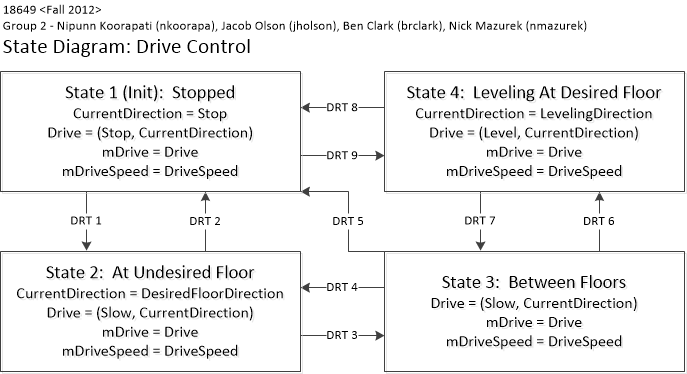
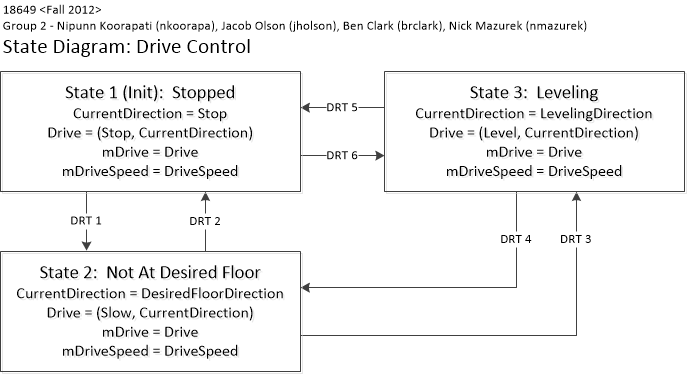
Fixed DriveControl and requirements, hopefully for good

diff --git a/portfolio/reqs/requirements2.html b/portfolio/reqs/requirements2.html
@@ -1731,8 +1731,8 @@ with a floor. </li>
     6.7&nbsp; If DriveSpeed equals (s,d), mDriveSpeed shall be set to (s,d).
   </li>
   <li>
-    6.8&nbsp; If mDesiredFloor.f equals CurrentFloor, and exactly one mLevel[d]
-    is False, then
+    6.8&nbsp; If exactly one mLevel[d] is False, and either mDesiredFloor.f
+    equals CurrentFloor or any mDoorClosed[b,r] are False, then
   </li>
   <ul>
     <li>
@@ -1743,8 +1743,8 @@ with a floor. </li>
     </li>
   </ul>
   <li>
-    6.9&nbsp; If mDesiredFloor.f equals CurrentFloor, and all mLevel[d] are
-    True, then
+    6.9&nbsp; If all mLevel[d] are True, and either mDesiredFloor.f equals
+    CurrentFloor or any mDoorClosed[b,r] are False, then
   </li>
   <ul>
     <li>
@@ -1755,9 +1755,9 @@ with a floor. </li>
     </li>
   </ul>
   <li>
-    6.10&nbsp; If CurrentFloor does not equal None, mDesiredFloor.f does
-    not equal CurrentFloor, mDesiredFloor.f is in the range [1,MaxFloor]
-    inclusive, and all mDoorClosed[b,r] are True, then
+    6.10&nbsp; If mDesiredFloor.f does not equal CurrentFloor, mDesiredFloor.f
+    is in the range [1,MaxFloor] inclusive, and all mDoorClosed[b,r] are True,
+    then
   </li>
   <ul>
     <li>
@@ -1809,7 +1809,7 @@ with a floor. </li>
       <td style="vertical-align: top;">DRT3
       </td>
       <td style="vertical-align: top;">
-        (CurrentFloor == None) &amp;&amp;<br/>
+        (mDesiredFloor.f == CurrentFloor) &amp;&amp;<br/>
         (Safe == True) &amp;&amp; (Obese == False)
       </td>
     </tr>
@@ -1817,36 +1817,12 @@ with a floor. </li>
       <td style="vertical-align: top;">DRT4
       </td>
       <td style="vertical-align: top;">
-        (CurrentFloor != None) &amp;&amp;<br/>
-        (mDesiredFloor.f != CurrentFloor) &amp;&amp;<br/>
-        (Safe == True) &amp;&amp; (Obese == False)
-      </td>
-    </tr>
-    <tr>
-      <td style="vertical-align: top;">DRT5
-      </td>
-      <td style="vertical-align: top;">
-        (Safe == False) || (Obese == True)
-      </td>
-    </tr>
-    <tr>
-      <td style="vertical-align: top;">DRT6
-      </td>
-      <td style="vertical-align: top;">
-        (mDesiredFloor.f == CurrentFloor) &amp;&amp;<br/>
-        (Safe == True) &amp;&amp; (Obese == False)
-      </td>
-    </tr>
-    <tr>
-      <td style="vertical-align: top;">DRT7
-      </td>
-      <td style="vertical-align: top;">
         (CurrentFloor == None) &amp;&amp;<br/>
         (Safe == True) &amp;&amp; (Obese == False)
       </td>
     </tr>
     <tr>
-      <td style="vertical-align: top;">DRT8
+      <td style="vertical-align: top;">DRT5
       </td>
       <td style="vertical-align: top;">
         (mLevel[*] == True) ||<br/>
@@ -1855,7 +1831,7 @@ with a floor. </li>
       </td>
     </tr>
     <tr>
-      <td style="vertical-align: top;">DRT9
+      <td style="vertical-align: top;">DRT6
       </td>
       <td style="vertical-align: top;">
         !(mLevel[*] == True) &amp;&amp;<br/>

diff --git a/code/simulator/elevatorcontrol/DriveControl.java b/code/simulator/elevatorcontrol/DriveControl.java
@@ -122,9 +122,8 @@ public class DriveControl extends Controller {
     // DriveControl has 3 possible states
     private enum State {
         STATE_STOPPED,
-        STATE_AT_UNDESIRED_FLOOR,
-        STATE_BETWEEN_FLOORS,
-        STATE_LEVELING_AT_DESIRED_FLOOR
+        STATE_NOT_AT_DESIRED_FLOOR,
+        STATE_LEVELING
     }
     
     // Set the state to the initial value (stopped)
@@ -246,14 +245,14 @@ public class DriveControl extends Controller {
                     (mDesiredFloor.getFloor() <= Elevator.numFloors) &&
                     (mDoorClosedFront.getBothClosed() && mDoorClosedBack.getBothClosed()) &&
                     getSafe() && !getObese()) {
-                    newState = State.STATE_AT_UNDESIRED_FLOOR;
-                // #transition DRT9
+                    newState = State.STATE_NOT_AT_DESIRED_FLOOR;
+                // #transition DRT6
                 } else if (!(mLevelUp.getValue() && mLevelDown.getValue()) &&
                            getSafe()) {
-                    newState = State.STATE_LEVELING_AT_DESIRED_FLOOR;
+                    newState = State.STATE_LEVELING;
                 }
                 break;
-            case STATE_AT_UNDESIRED_FLOOR:
+            case STATE_NOT_AT_DESIRED_FLOOR:
                 // State actions for STATE_AT_UNDESIRED_FLOOR
                 currentDirection = getDesiredFloorDirection();
                 drive.set(Speed.SLOW, currentDirection);
@@ -264,43 +263,23 @@ public class DriveControl extends Controller {
                 if (!getSafe() || getObese()) {
                     newState = State.STATE_STOPPED;
                 // #transition DRT3
-                } else if (mAtFloor.getCurrentFloor() == MessageDictionary.NONE &&
-                           getSafe() && !getObese()) {
-                    newState = State.STATE_BETWEEN_FLOORS;
-                }
-                break;
-            case STATE_BETWEEN_FLOORS:
-                // State actions for STATE_BETWEEN_FLOORS
-                drive.set(Speed.SLOW, currentDirection);
-                mDrive.set(Speed.SLOW, currentDirection);
-                mDriveSpeed.set(driveSpeed.speed(), driveSpeed.direction());
-                
-                // #transition DRT4
-                if (mAtFloor.getCurrentFloor() != MessageDictionary.NONE &&
-                    mDesiredFloor.getFloor() != mAtFloor.getCurrentFloor() &&
-                    getSafe() && !getObese()) {
-                    newState = State.STATE_AT_UNDESIRED_FLOOR;
-                // #transition DRT5
-                } else if (!getSafe() || getObese()) {
-                    newState = State.STATE_STOPPED;
-                // #transition DRT6
                 } else if (mDesiredFloor.getFloor() == mAtFloor.getCurrentFloor() &&
                            getSafe() && !getObese()) {
-                    newState = State.STATE_LEVELING_AT_DESIRED_FLOOR;
+                    newState = State.STATE_LEVELING;
                 }
                 break;
-            case STATE_LEVELING_AT_DESIRED_FLOOR:
+            case STATE_LEVELING:
                 // State actions for STATE_LEVELING_AT_DESIRED_FLOOR
                 currentDirection = getLevelingDirection();
                 drive.set(Speed.LEVEL, currentDirection);
                 mDrive.set(Speed.LEVEL, currentDirection);
                 mDriveSpeed.set(driveSpeed.speed(), driveSpeed.direction());
                 
-                // #transition DRT7
+                // #transition DRT4
                 if (mAtFloor.getCurrentFloor() == MessageDictionary.NONE &&
                     getSafe() && !getObese()) {
-                    newState = State.STATE_BETWEEN_FLOORS;
-                // #transition DRT8
+                    newState = State.STATE_NOT_AT_DESIRED_FLOOR;
+                // #transition DRT5
                 } else if ((mLevelUp.getValue() && mLevelDown.getValue()) ||
                            ((mAtFloor.getCurrentFloor() != MessageDictionary.NONE) &&
                            (mDesiredFloor.getFloor() != mAtFloor.getCurrentFloor())) ||
